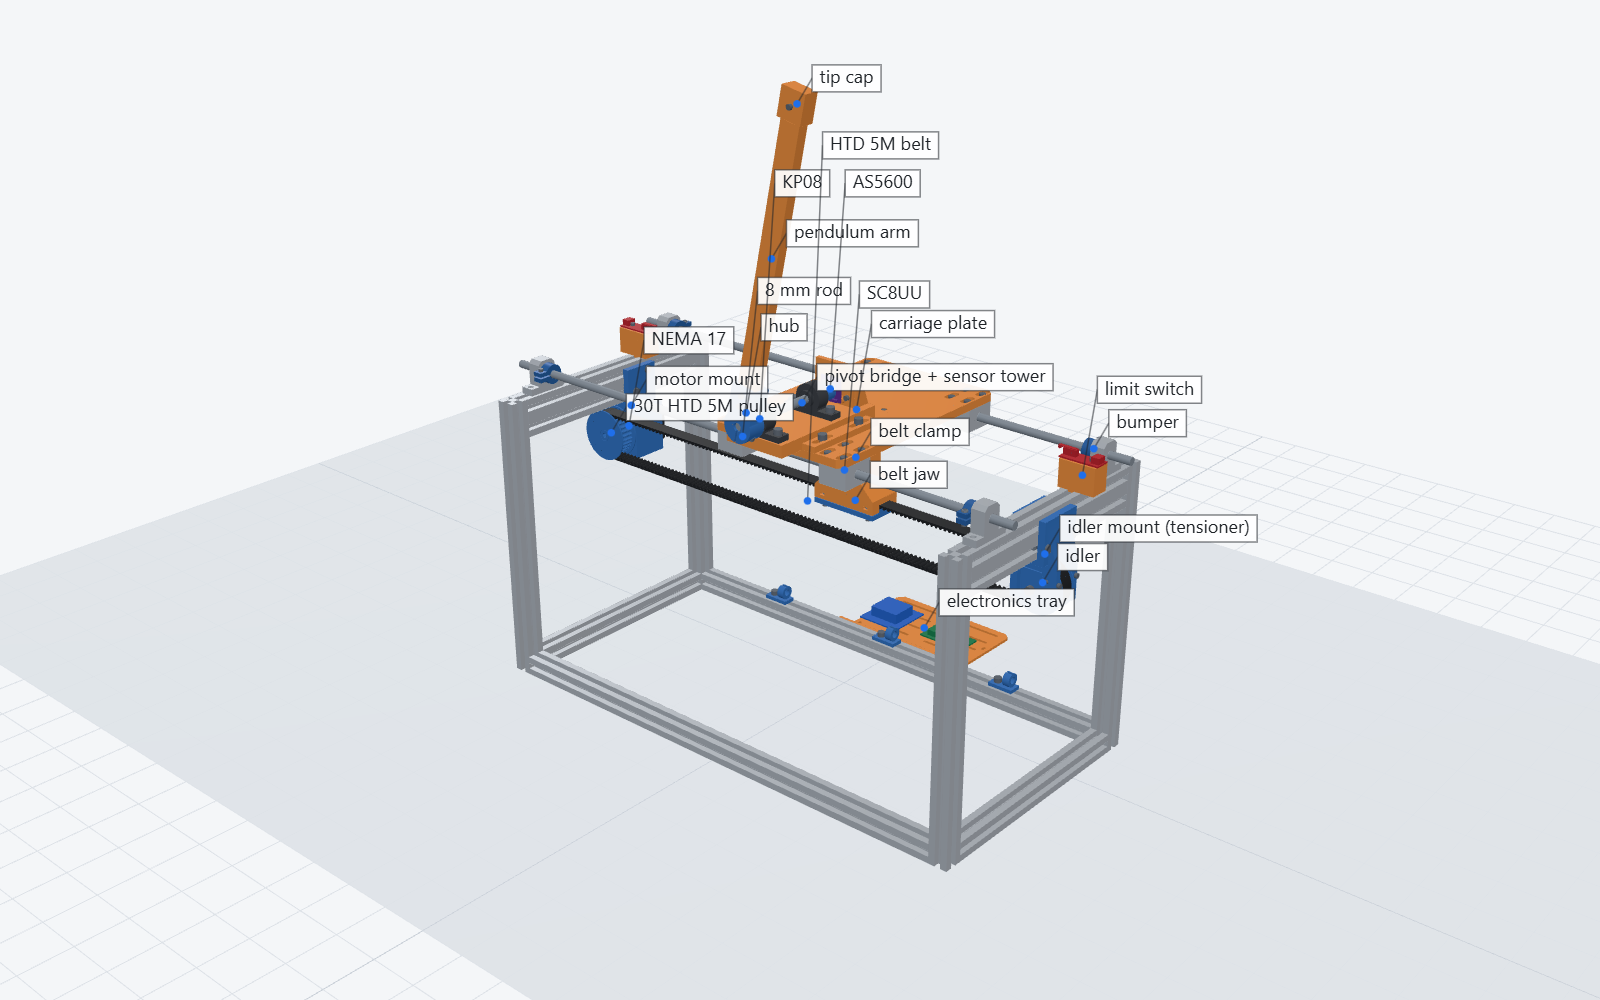
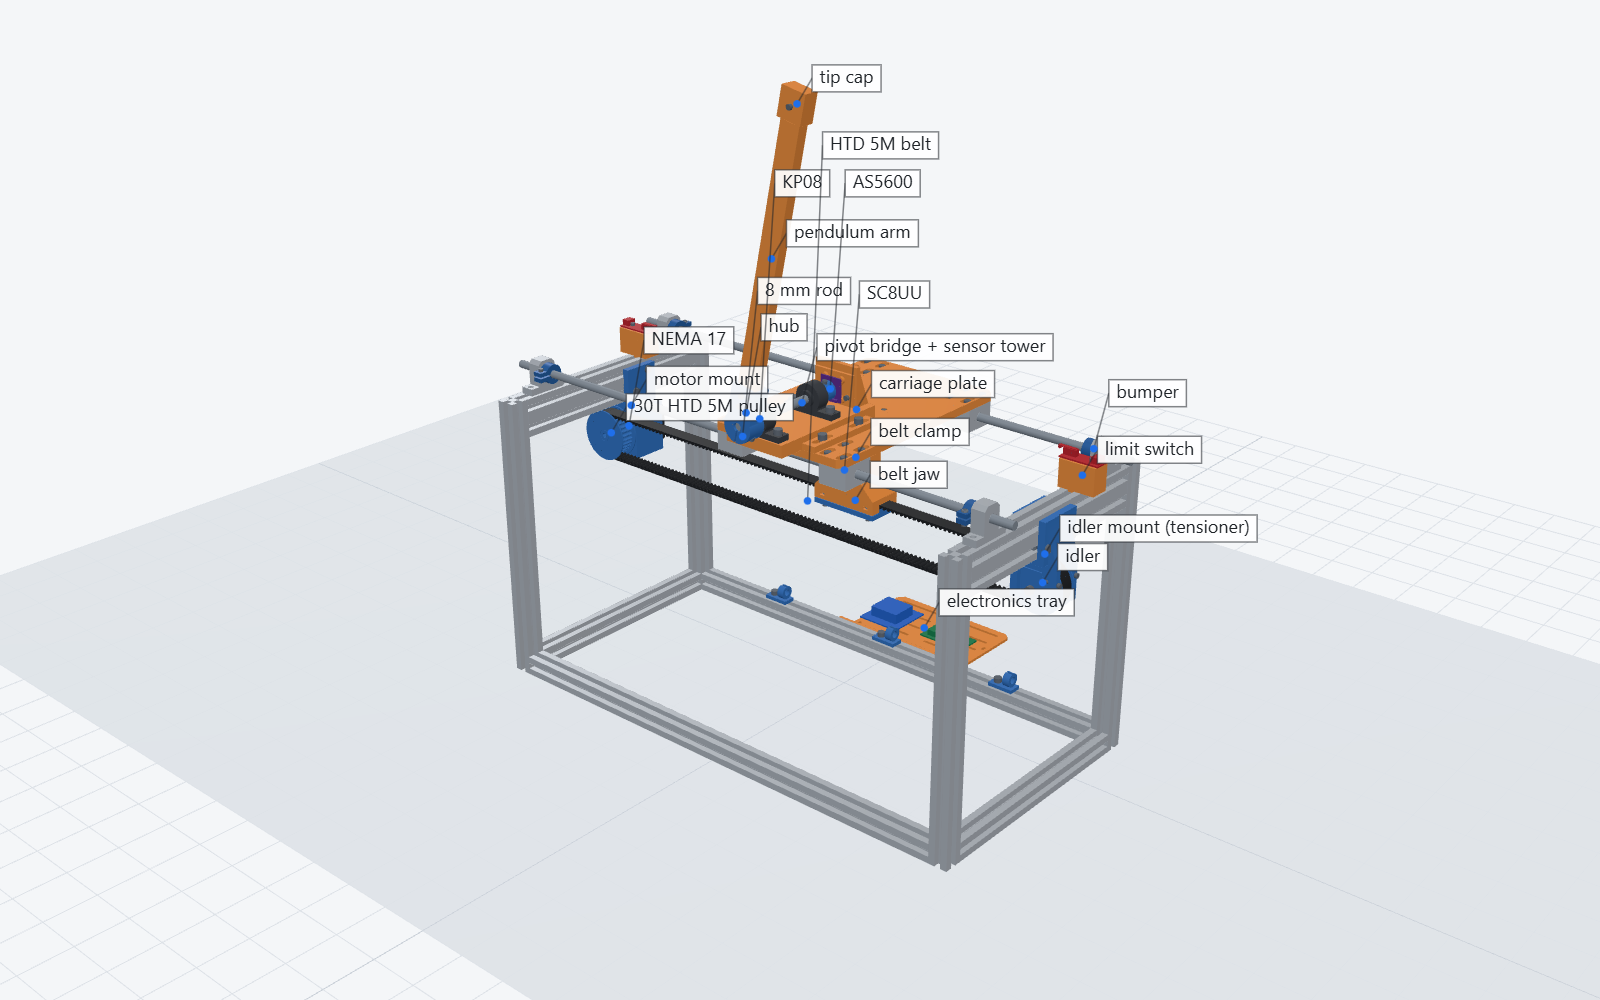
Renders: print plates with the new layout; AGENTS note on cross-platform results

Changed region(s): [[0.5, 0.31, 0.6562, 0.403], [0.6562, 0.372, 0.75, 0.465]]

diff --git a/AGENTS.md b/AGENTS.md
@@ -29,5 +29,10 @@
   GIF has more than one frame: Pillow merges identical frames into one.
 - When a finding is fixed or a new one is found, update `REPORT.md` (status table and text) in
   the same commit.
+- CI runs the gate on Linux; it was built on Windows. Anything the gate recomputes and compares
+  exactly (plate layouts and their stamps, the tracker, the manifest) must come out the same on
+  both: round floats before comparing or hashing, and break exact ties (round parts turned 45°
+  or 135°) by a fixed preference, not by float noise (`plates.py`, `_rot`). The gate prints a
+  GitHub error annotation for each failed check, readable without the run's log.
 - Pushing to GitHub over HTTPS: very large packs get reset on this network. Push in commits of
   about 20 MB or less (the G-code folders are the large part).
